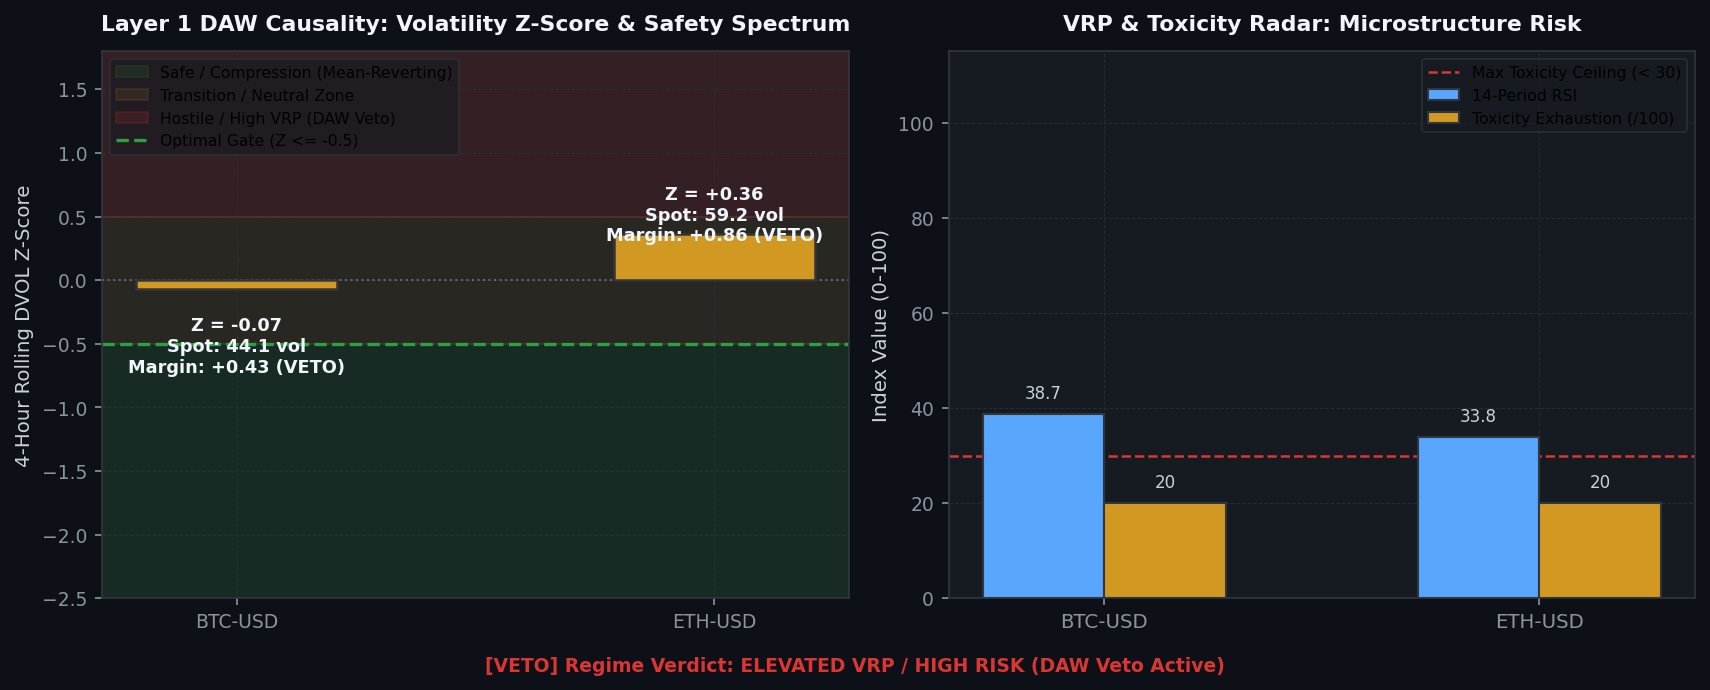
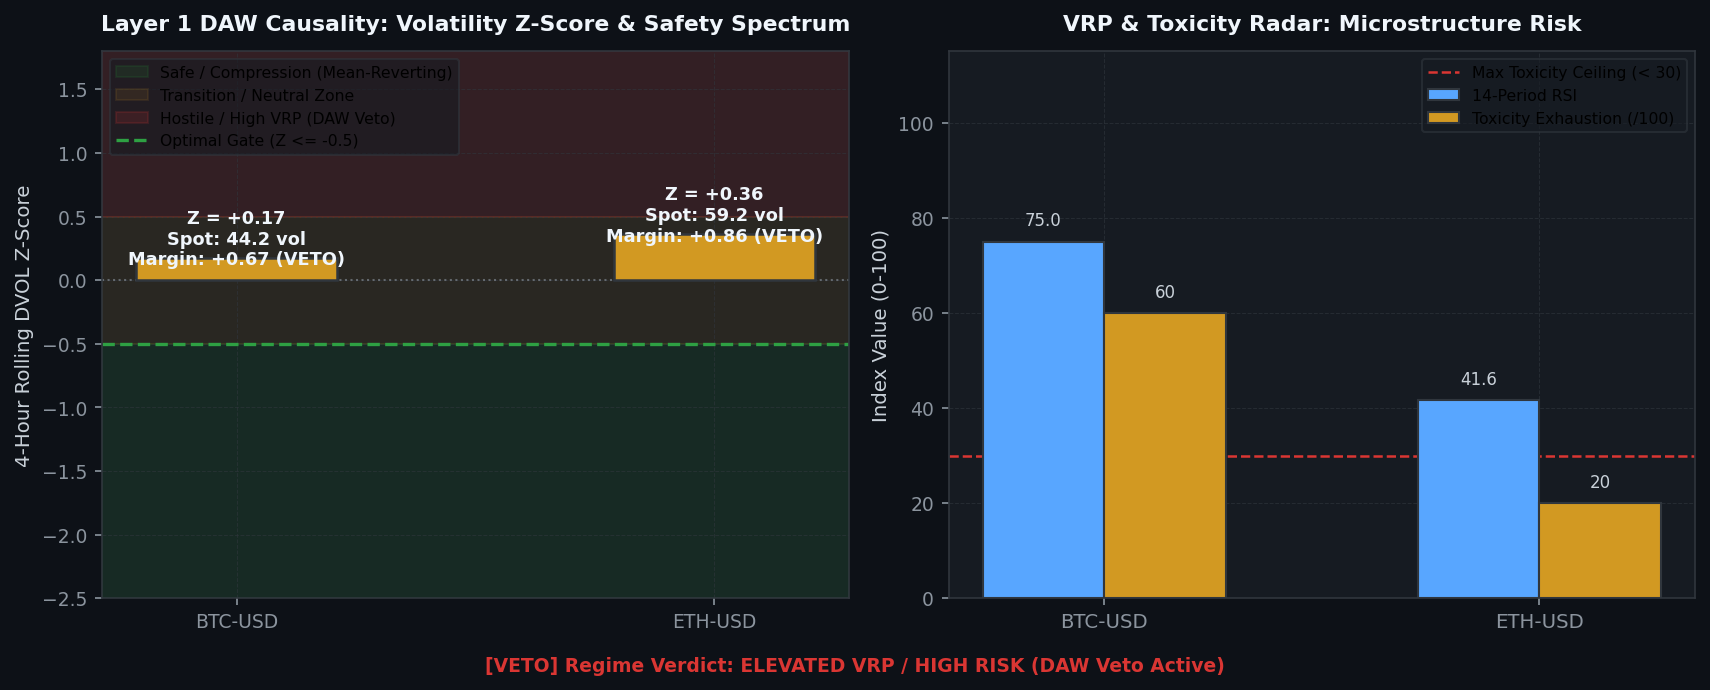
[coinbase] Hourly Status & Visual Intelligence Update: 2026-08-25 00:26:24

diff --git a/coinbase/data/hourly_status_report.md b/coinbase/data/hourly_status_report.md
@@ -3,7 +3,7 @@ layout: default
 ---
 
 # 🛡 Unified Trading System Hourly Status & Visual Intelligence
-> **Report Generated**: `2026-08-25 12:08:01 AM PDT (2026-08-25 07:08:01 UTC)`  
+> **Report Generated**: `2026-08-25 12:26:07 AM PDT (2026-08-25 07:26:07 UTC)`  
 > **System Health**: **🟡 DEGRADED / RESTRICTED** | **Win Rate**: `0.0%` | **Completed Trades**: `0`
 
 
@@ -15,13 +15,13 @@ Real-time Deribit implied volatility (DVOL) proxy tracking against mathematicall
 
 | Symbol | Proxy Oracle | Live Z-Score | Optimal Limit (YSP) | Safety Margin | Live VRP | Optimal VRP (YSP) | DAW Safety Verdict |
 | :--- | :--- | :--- | :--- | :--- | :--- | :--- | :--- |
-| `AVAX-USD` | DVOL_BTC | **-0.07** | **-0.50** | **+0.43** | **-4.84** | 5.0 | 🔴 DAW VETOED |
-| `ETH-USD` | DVOL_ETH | **+0.36** | **-0.50** | **+0.86** | **+9.74** | 5.0 | 🔴 DAW VETOED |
-| `ADA-USD` | DVOL_BTC | **-0.07** | **-0.50** | **+0.43** | **-5.10** | 5.0 | 🔴 DAW VETOED |
-| `DOGE-USD` | DVOL_BTC | **-0.07** | **-0.50** | **+0.43** | **-4.84** | 5.0 | 🔴 DAW VETOED |
-| `BTC-USD` | DVOL_BTC | **-0.07** | **-0.50** | **+0.43** | **-4.84** | 5.0 | 🔴 DAW VETOED |
-| `LINK-USD` | DVOL_BTC | **-0.07** | **-0.50** | **+0.43** | **-5.22** | 5.0 | 🔴 DAW VETOED |
-| `SOL-USD` | DVOL_BTC | **-0.07** | **-0.50** | **+0.43** | **-4.84** | 5.0 | 🔴 DAW VETOED |
+| `AVAX-USD` | DVOL_BTC | **+0.17** | **-0.50** | **+0.67** | **-4.69** | 5.0 | 🔴 DAW VETOED |
+| `ETH-USD` | DVOL_ETH | **+0.38** | **-0.50** | **+0.88** | **+9.74** | 5.0 | 🔴 DAW VETOED |
+| `ADA-USD` | DVOL_BTC | **+0.17** | **-0.50** | **+0.67** | **-5.10** | 5.0 | 🔴 DAW VETOED |
+| `DOGE-USD` | DVOL_BTC | **+0.17** | **-0.50** | **+0.67** | **-4.69** | 5.0 | 🔴 DAW VETOED |
+| `BTC-USD` | DVOL_BTC | **+0.17** | **-0.50** | **+0.67** | **-4.69** | 5.0 | 🔴 DAW VETOED |
+| `LINK-USD` | DVOL_BTC | **+0.17** | **-0.50** | **+0.67** | **-5.22** | 5.0 | 🔴 DAW VETOED |
+| `SOL-USD` | DVOL_BTC | **+0.17** | **-0.50** | **+0.67** | **-4.69** | 5.0 | 🔴 DAW VETOED |
 
 
 
@@ -37,16 +37,16 @@ We hereby certify that the mission-critical algorithmic data assets uploaded by 
 
 | Status | Data Asset | Freshness / State | Details / Timestamp |
 | :---: | :--- | :--- | :--- |
-| ✅ | **Go-List JSON** | Fresh (4.86h old) | 08-24 19:16 |
-| ✅ | **TimesFM Forecasts** | Fresh (0.10h old) | 08-25 00:01 |
-| ❌ | **Holding Times config** | STALE! (87.1h old) | Limit 29.1h |
-| ✅ | **BTC DVOL Cache** | Fresh (0.00h old) | 08-25 00:07 |
-| ✅ | **ETH DVOL Cache** | Fresh (0.00h old) | 08-25 00:08 |
-| ✅ | **Live Trading Telemetry** | Fresh (0.00h old) | 08-25 00:07 |
+| ✅ | **Go-List JSON** | Fresh (5.16h old) | 08-24 19:16 |
+| ✅ | **TimesFM Forecasts** | Fresh (0.40h old) | 08-25 00:01 |
+| ❌ | **Holding Times config** | STALE! (87.4h old) | Limit 29.4h |
+| ✅ | **BTC DVOL Cache** | Fresh (0.00h old) | 08-25 00:26 |
+| ✅ | **ETH DVOL Cache** | Fresh (0.00h old) | 08-25 00:26 |
+| ✅ | **Live Trading Telemetry** | Fresh (0.01h old) | 08-25 00:26 |
 
 <br>
 
-> **Utilization Certification**: ✅ **CERTIFIED.** The Guardian Watchdog is ONLINE and EC2 traders are actively querying the freshest MLOps data artifacts (Found 2000 recent read events).
+> **Utilization Certification**: ✅ **CERTIFIED.** The Guardian Watchdog is ONLINE and EC2 traders are actively querying the freshest MLOps data artifacts (Found 1985 recent read events).
 
 
 ---
@@ -55,7 +55,7 @@ Layer-by-layer tick evaluation waterfall and asset-specific performance tracking
 
 | Funnel Filter Layer | Total Rejections | % of Rejections |
 | :--- | :--- | :--- |
-| Tier 1: Macro Volatility Tensor Gate (Omega_macro) | `3,981` | **100.0%** |
+| Tier 1: Macro Volatility Tensor Gate (Omega_macro) | `4,181` | **100.0%** |
 | Tier 2: Unified Transport & Directional Engine | `0` | **0.0%** |
 | Tier 3: Continuous Hawkes-SFGK Pricer (HAS-Pricer) | `0` | **0.0%** |
 | System: Asset Cooldown Active | `0` | **0.0%** |
@@ -88,7 +88,6 @@ Live balance sheet and open maker liquidity positions from Coinbase CDP.
 | `ADA-USD` | SELL | 0.22853 | `2beee26b-f88c-4929-8625-ec618ae9e32d` |
 | `AVAX-USD` | SELL | 7.708 | `7c4cd0f2-8347-4458-a3a5-8619324273a2` |
 | `ADA-USD` | SELL | 0.22818 | `7af97780-5e33-47e5-9caf-12bec2c8a7d5` |
-| `ADA-USD` | SELL | 0.22728 | `bf03c112-f8fa-4a59-8cb1-e0b98a5b8ac2` |
 | `LINK-USD` | SELL | 11.809 | `8a7d2ebb-36f1-4abc-9889-2c85b18118f4` |
 | `ETH-USD` | SELL | 2512.32 | `fbc1490b-4d58-459c-93f6-eb6dce1d28a9` |
 
@@ -98,14 +97,14 @@ Live balance sheet and open maker liquidity positions from Coinbase CDP.
 ## 4. 🤖 Foundation Model MLOps & Pipeline Orchestration
 Weekly Algorithmic Mega Cap selection, Zero-shot multi-step forward return forecasts, and VSTEF parameter grid search status.
 
-- **TimesFM Forecast DB**: 🟢 Updated 0.1h ago (2026-08-25 12:01 AM PDT)
+- **TimesFM Forecast DB**: 🟢 Updated 0.4h ago (2026-08-25 12:01 AM PDT)
 - **Last Weekly VSTEF Optimization**: `2026-08-05 09:22:38 AM PDT`
-- **Next Scheduled VSTEF Run**: `2026-08-30 07:00:00 PM PDT (Monday 02:00 UTC)` (Countdown: **138.9h (5d 18h 51m)**)
+- **Next Scheduled VSTEF Run**: `2026-08-30 07:00:00 PM PDT (Monday 02:00 UTC)` (Countdown: **138.6h (5d 18h 33m)**)
 - **Promoted Parameter Gates**: $Z_{DVOL} \le -0.5$ | Holding Horizon $= 12\text{h}$
 
 ### Algorithmic Mega Cap Selection
 - **Last Run (Confirmation)**: `2026-08-24 07:16:47 PM PDT`
-- **Next Scheduled Run**: `2026-08-30 06:00:00 PM PDT (Monday 01:00 UTC)` (Countdown: **137.9h (5d 17h 51m)**)
+- **Next Scheduled Run**: `2026-08-30 06:00:00 PM PDT (Monday 01:00 UTC)` (Countdown: **137.6h (5d 17h 33m)**)
 - **Selected Mega Cap Universe**: `BTC, BCH, AVAX, ETH, ALGO, ADA, LTC, DOGE, AAVE, LINK, DOT, HBAR`
 
 
@@ -119,19 +118,19 @@ Visualizing the impact of the VSTEF (Volatility-Synchronized Stop-Tightening Exe
 ## 5. 🖥 Multi-Node Infrastructure & Watchdog Matrix
 ```text
 ================================================================================
-   🛡  SFGK FUNNEL GUARDIAN WATCHDOG (HFT ONLY) |  07:07:58 AM
-   CPU:  19.9%  |  MEM:   7.9% (14.2GB / 15.4GB Free)
+   🛡  SFGK FUNNEL GUARDIAN WATCHDOG (HFT ONLY) |  07:26:05 AM
+   CPU:  24.4%  |  MEM:   7.1% (14.3GB / 15.4GB Free)
 ================================================================================
 SERVICE              | PID      | STATUS          | RESTARTS | INFO
 --------------------------------------------------------------------------------
 L3 Consumer          | 3084610  | RUNNING         | -        | Continuous Websocket Feed
 MAO Daemon           | 3084662  | RUNNING         | -        | Oracle Yield Analysis
 Stable Farmer        | 3084664  | RUNNING         | -        | Volume Farmer
-Trader AVAX-USD      | 3151171  | RUNNING         | 197      | Evaluating Funnel/Polling Order
+Trader AVAX-USD      | 3165748  | COOL-DOWN       | 247      | Next run in 14.7s
 Trader ETH-USD       | 3119671  | RUNNING         | 109      | Evaluating Funnel/Polling Order
 Trader ADA-USD       | 3114924  | RUNNING         | 70       | Evaluating Funnel/Polling Order
-Trader DOGE-USD      | 3151172  | RUNNING         | 137      | Evaluating Funnel/Polling Order
-Trader BTC-USD       | 3151173  | RUNNING         | 220      | Evaluating Funnel/Polling Order
+Trader DOGE-USD      | 3165749  | COOL-DOWN       | 187      | Next run in 14.7s
+Trader BTC-USD       | 3165750  | COOL-DOWN       | 270      | Next run in 14.7s
 Trader LINK-USD      | 3120195  | RUNNING         | 94       | Evaluating Funnel/Polling Order
 ```
 
@@ -151,46 +150,46 @@ Trader LINK-USD      | 3120195  | RUNNING         | 94       | Evaluating Funnel
 <summary><b>Click to expand raw incident logs</b></summary>
 
 ```text
-logs/watchdog_Trader_LINK_USD.log:2026-08-25 07:04:41 [ERROR] [async_sfgk_trader.py:perform_trade_cycle:1006] [LINK-USD] Error polling sell order / ticker: name 'price_buffer' is not defined
-logs/watchdog_Trader_LINK_USD.log:2026-08-25 07:04:46 [ERROR] [async_sfgk_trader.py:perform_trade_cycle:1006] [LINK-USD] Error polling sell order / ticker: name 'price_buffer' is not defined
-logs/watchdog_Trader_LINK_USD.log:2026-08-25 07:04:51 [ERROR] [async_sfgk_trader.py:perform_trade_cycle:1006] [LINK-USD] Error polling sell order / ticker: name 'price_buffer' is not defined
-logs/watchdog_Trader_LINK_USD.log:2026-08-25 07:04:56 [ERROR] [async_sfgk_trader.py:perform_trade_cycle:1006] [LINK-USD] Error polling sell order / ticker: name 'price_buffer' is not defined
-logs/watchdog_Trader_LINK_USD.log:2026-08-25 07:05:01 [ERROR] [async_sfgk_trader.py:perform_trade_cycle:1006] [LINK-USD] Error polling sell order / ticker: name 'price_buffer' is not defined
-logs/watchdog_Trader_LINK_USD.log:2026-08-25 07:05:06 [ERROR] [async_sfgk_trader.py:perform_trade_cycle:1006] [LINK-USD] Error polling sell order / ticker: name 'price_buffer' is not defined
-logs/watchdog_Trader_LINK_USD.log:2026-08-25 07:05:11 [ERROR] [async_sfgk_trader.py:perform_trade_cycle:1006] [LINK-USD] Error polling sell order / ticker: name 'price_buffer' is not defined
-logs/watchdog_Trader_LINK_USD.log:2026-08-25 07:05:17 [ERROR] [async_sfgk_trader.py:perform_trade_cycle:1006] [LINK-USD] Error polling sell order / ticker: name 'price_buffer' is not defined
-logs/watchdog_Trader_LINK_USD.log:2026-08-25 07:05:22 [ERROR] [async_sfgk_trader.py:perform_trade_cycle:1006] [LINK-USD] Error polling sell order / ticker: name 'price_buffer' is not defined
-logs/watchdog_Trader_LINK_USD.log:2026-08-25 07:05:27 [ERROR] [async_sfgk_trader.py:perform_trade_cycle:1006] [LINK-USD] Error polling sell order / ticker: name 'price_buffer' is not defined
-logs/watchdog_Trader_LINK_USD.log:2026-08-25 07:05:32 [ERROR] [async_sfgk_trader.py:perform_trade_cycle:1006] [LINK-USD] Error polling sell order / ticker: name 'price_buffer' is not defined
-logs/watchdog_Trader_LINK_USD.log:2026-08-25 07:05:37 [ERROR] [async_sfgk_trader.py:perform_trade_cycle:1006] [LINK-USD] Error polling sell order / ticker: name 'price_buffer' is not defined
-logs/watchdog_Trader_LINK_USD.log:2026-08-25 07:05:42 [ERROR] [async_sfgk_trader.py:perform_trade_cycle:1006] [LINK-USD] Error polling sell order / ticker: name 'price_buffer' is not defined
-logs/watchdog_Trader_LINK_USD.log:2026-08-25 07:05:47 [ERROR] [async_sfgk_trader.py:perform_trade_cycle:1006] [LINK-USD] Error polling sell order / ticker: name 'price_buffer' is not defined
-logs/watchdog_Trader_LINK_USD.log:2026-08-25 07:05:53 [ERROR] [async_sfgk_trader.py:perform_trade_cycle:1006] [LINK-USD] Error polling sell order / ticker: name 'price_buffer' is not defined
-logs/watchdog_Trader_LINK_USD.log:2026-08-25 07:05:58 [ERROR] [async_sfgk_trader.py:perform_trade_cycle:1006] [LINK-USD] Error polling sell order / ticker: name 'price_buffer' is not defined
-logs/watchdog_Trader_LINK_USD.log:2026-08-25 07:06:03 [ERROR] [async_sfgk_trader.py:perform_trade_cycle:1006] [LINK-USD] Error polling sell order / ticker: name 'price_buffer' is not defined
-logs/watchdog_Trader_LINK_USD.log:2026-08-25 07:06:08 [ERROR] [async_sfgk_trader.py:perform_trade_cycle:1006] [LINK-USD] Error polling sell order / ticker: name 'price_buffer' is not defined
-logs/watchdog_Trader_LINK_USD.log:2026-08-25 07:06:13 [ERROR] [async_sfgk_trader.py:perform_trade_cycle:1006] [LINK-USD] Error polling sell order / ticker: name 'price_buffer' is not defined
-logs/watchdog_Trader_LINK_USD.log:2026-08-25 07:06:18 [ERROR] [async_sfgk_trader.py:perform_trade_cycle:1006] [LINK-USD] Error polling sell order / ticker: name 'price_buffer' is not defined
-logs/watchdog_Trader_LINK_USD.log:2026-08-25 07:06:24 [ERROR] [async_sfgk_trader.py:perform_trade_cycle:1006] [LINK-USD] Error polling sell order / ticker: name 'price_buffer' is not defined
-logs/watchdog_Trader_LINK_USD.log:2026-08-25 07:06:29 [ERROR] [async_sfgk_trader.py:perform_trade_cycle:1006] [LINK-USD] Error polling sell order / ticker: name 'price_buffer' is not defined
-logs/watchdog_Trader_LINK_USD.log:2026-08-25 07:06:34 [ERROR] [async_sfgk_trader.py:perform_trade_cycle:1006] [LINK-USD] Error polling sell order / ticker: name 'price_buffer' is not defined
-logs/watchdog_Trader_LINK_USD.log:2026-08-25 07:06:39 [ERROR] [async_sfgk_trader.py:perform_trade_cycle:1006] [LINK-USD] Error polling sell order / ticker: name 'price_buffer' is not defined
-logs/watchdog_Trader_LINK_USD.log:2026-08-25 07:06:44 [ERROR] [async_sfgk_trader.py:perform_trade_cycle:1006] [LINK-USD] Error polling sell order / ticker: name 'price_buffer' is not defined
-logs/watchdog_Trader_LINK_USD.log:2026-08-25 07:06:49 [ERROR] [async_sfgk_trader.py:perform_trade_cycle:1006] [LINK-USD] Error polling sell order / ticker: name 'price_buffer' is not defined
-logs/watchdog_Trader_LINK_USD.log:2026-08-25 07:06:55 [ERROR] [async_sfgk_trader.py:perform_trade_cycle:1006] [LINK-USD] Error polling sell order / ticker: name 'price_buffer' is not defined
-logs/watchdog_Trader_LINK_USD.log:2026-08-25 07:07:00 [ERROR] [async_sfgk_trader.py:perform_trade_cycle:1006] [LINK-USD] Error polling sell order / ticker: name 'price_buffer' is not defined
-logs/watchdog_Trader_LINK_USD.log:2026-08-25 07:07:05 [ERROR] [async_sfgk_trader.py:perform_trade_cycle:1006] [LINK-USD] Error polling sell order / ticker: name 'price_buffer' is not defined
-logs/watchdog_Trader_LINK_USD.log:2026-08-25 07:07:10 [ERROR] [async_sfgk_trader.py:perform_trade_cycle:1006] [LINK-USD] Error polling sell order / ticker: name 'price_buffer' is not defined
-logs/watchdog_Trader_LINK_USD.log:2026-08-25 07:07:15 [ERROR] [async_sfgk_trader.py:perform_trade_cycle:1006] [LINK-USD] Error polling sell order / ticker: name 'price_buffer' is not defined
-logs/watchdog_Trader_LINK_USD.log:2026-08-25 07:07:20 [ERROR] [async_sfgk_trader.py:perform_trade_cycle:1006] [LINK-USD] Error polling sell order / ticker: name 'price_buffer' is not defined
-logs/watchdog_Trader_LINK_USD.log:2026-08-25 07:07:25 [ERROR] [async_sfgk_trader.py:perform_trade_cycle:1006] [LINK-USD] Error polling sell order / ticker: name 'price_buffer' is not defined
-logs/watchdog_Trader_LINK_USD.log:2026-08-25 07:07:31 [ERROR] [async_sfgk_trader.py:perform_trade_cycle:1006] [LINK-USD] Error polling sell order / ticker: name 'price_buffer' is not defined
-logs/watchdog_Trader_LINK_USD.log:2026-08-25 07:07:36 [ERROR] [async_sfgk_trader.py:perform_trade_cycle:1006] [LINK-USD] Error polling sell order / ticker: name 'price_buffer' is not defined
-logs/watchdog_Trader_LINK_USD.log:2026-08-25 07:07:41 [ERROR] [async_sfgk_trader.py:perform_trade_cycle:1006] [LINK-USD] Error polling sell order / ticker: name 'price_buffer' is not defined
-logs/watchdog_Trader_LINK_USD.log:2026-08-25 07:07:46 [ERROR] [async_sfgk_trader.py:perform_trade_cycle:1006] [LINK-USD] Error polling sell order / ticker: name 'price_buffer' is not defined
-logs/watchdog_Trader_LINK_USD.log:2026-08-25 07:07:51 [ERROR] [async_sfgk_trader.py:perform_trade_cycle:1006] [LINK-USD] Error polling sell order / ticker: name 'price_buffer' is not defined
-logs/watchdog_Trader_LINK_USD.log:2026-08-25 07:07:57 [ERROR] [async_sfgk_trader.py:perform_trade_cycle:1006] [LINK-USD] Error polling sell order / ticker: name 'price_buffer' is not defined
-logs/watchdog_Trader_LINK_USD.log:2026-08-25 07:08:02 [ERROR] [async_sfgk_trader.py:perform_trade_cycle:1006] [LINK-USD] Error polling sell order / ticker: name 'price_buffer' is not defined
+logs/watchdog_Trader_LINK_USD.log:2026-08-25 07:22:49 [ERROR] [async_sfgk_trader.py:perform_trade_cycle:1006] [LINK-USD] Error polling sell order / ticker: name 'price_buffer' is not defined
+logs/watchdog_Trader_LINK_USD.log:2026-08-25 07:22:54 [ERROR] [async_sfgk_trader.py:perform_trade_cycle:1006] [LINK-USD] Error polling sell order / ticker: name 'price_buffer' is not defined
+logs/watchdog_Trader_LINK_USD.log:2026-08-25 07:22:59 [ERROR] [async_sfgk_trader.py:perform_trade_cycle:1006] [LINK-USD] Error polling sell order / ticker: name 'price_buffer' is not defined
+logs/watchdog_Trader_LINK_USD.log:2026-08-25 07:23:04 [ERROR] [async_sfgk_trader.py:perform_trade_cycle:1006] [LINK-USD] Error polling sell order / ticker: name 'price_buffer' is not defined
+logs/watchdog_Trader_LINK_USD.log:2026-08-25 07:23:09 [ERROR] [async_sfgk_trader.py:perform_trade_cycle:1006] [LINK-USD] Error polling sell order / ticker: name 'price_buffer' is not defined
+logs/watchdog_Trader_LINK_USD.log:2026-08-25 07:23:14 [ERROR] [async_sfgk_trader.py:perform_trade_cycle:1006] [LINK-USD] Error polling sell order / ticker: name 'price_buffer' is not defined
+logs/watchdog_Trader_LINK_USD.log:2026-08-25 07:23:19 [ERROR] [async_sfgk_trader.py:perform_trade_cycle:1006] [LINK-USD] Error polling sell order / ticker: name 'price_buffer' is not defined
+logs/watchdog_Trader_LINK_USD.log:2026-08-25 07:23:25 [ERROR] [async_sfgk_trader.py:perform_trade_cycle:1006] [LINK-USD] Error polling sell order / ticker: name 'price_buffer' is not defined
+logs/watchdog_Trader_LINK_USD.log:2026-08-25 07:23:30 [ERROR] [async_sfgk_trader.py:perform_trade_cycle:1006] [LINK-USD] Error polling sell order / ticker: name 'price_buffer' is not defined
+logs/watchdog_Trader_LINK_USD.log:2026-08-25 07:23:35 [ERROR] [async_sfgk_trader.py:perform_trade_cycle:1006] [LINK-USD] Error polling sell order / ticker: name 'price_buffer' is not defined
+logs/watchdog_Trader_LINK_USD.log:2026-08-25 07:23:40 [ERROR] [async_sfgk_trader.py:perform_trade_cycle:1006] [LINK-USD] Error polling sell order / ticker: name 'price_buffer' is not defined
+logs/watchdog_Trader_LINK_USD.log:2026-08-25 07:23:45 [ERROR] [async_sfgk_trader.py:perform_trade_cycle:1006] [LINK-USD] Error polling sell order / ticker: name 'price_buffer' is not defined
+logs/watchdog_Trader_LINK_USD.log:2026-08-25 07:23:50 [ERROR] [async_sfgk_trader.py:perform_trade_cycle:1006] [LINK-USD] Error polling sell order / ticker: name 'price_buffer' is not defined
+logs/watchdog_Trader_LINK_USD.log:2026-08-25 07:23:56 [ERROR] [async_sfgk_trader.py:perform_trade_cycle:1006] [LINK-USD] Error polling sell order / ticker: name 'price_buffer' is not defined
+logs/watchdog_Trader_LINK_USD.log:2026-08-25 07:24:01 [ERROR] [async_sfgk_trader.py:perform_trade_cycle:1006] [LINK-USD] Error polling sell order / ticker: name 'price_buffer' is not defined
+logs/watchdog_Trader_LINK_USD.log:2026-08-25 07:24:06 [ERROR] [async_sfgk_trader.py:perform_trade_cycle:1006] [LINK-USD] Error polling sell order / ticker: name 'price_buffer' is not defined
+logs/watchdog_Trader_LINK_USD.log:2026-08-25 07:24:11 [ERROR] [async_sfgk_trader.py:perform_trade_cycle:1006] [LINK-USD] Error polling sell order / ticker: name 'price_buffer' is not defined
+logs/watchdog_Trader_LINK_USD.log:2026-08-25 07:24:17 [ERROR] [async_sfgk_trader.py:perform_trade_cycle:1006] [LINK-USD] Error polling sell order / ticker: name 'price_buffer' is not defined
+logs/watchdog_Trader_LINK_USD.log:2026-08-25 07:24:22 [ERROR] [async_sfgk_trader.py:perform_trade_cycle:1006] [LINK-USD] Error polling sell order / ticker: name 'price_buffer' is not defined
+logs/watchdog_Trader_LINK_USD.log:2026-08-25 07:24:27 [ERROR] [async_sfgk_trader.py:perform_trade_cycle:1006] [LINK-USD] Error polling sell order / ticker: name 'price_buffer' is not defined
+logs/watchdog_Trader_LINK_USD.log:2026-08-25 07:24:32 [ERROR] [async_sfgk_trader.py:perform_trade_cycle:1006] [LINK-USD] Error polling sell order / ticker: name 'price_buffer' is not defined
+logs/watchdog_Trader_LINK_USD.log:2026-08-25 07:24:37 [ERROR] [async_sfgk_trader.py:perform_trade_cycle:1006] [LINK-USD] Error polling sell order / ticker: name 'price_buffer' is not defined
+logs/watchdog_Trader_LINK_USD.log:2026-08-25 07:24:42 [ERROR] [async_sfgk_trader.py:perform_trade_cycle:1006] [LINK-USD] Error polling sell order / ticker: name 'price_buffer' is not defined
+logs/watchdog_Trader_LINK_USD.log:2026-08-25 07:24:47 [ERROR] [async_sfgk_trader.py:perform_trade_cycle:1006] [LINK-USD] Error polling sell order / ticker: name 'price_buffer' is not defined
+logs/watchdog_Trader_LINK_USD.log:2026-08-25 07:24:53 [ERROR] [async_sfgk_trader.py:perform_trade_cycle:1006] [LINK-USD] Error polling sell order / ticker: name 'price_buffer' is not defined
+logs/watchdog_Trader_LINK_USD.log:2026-08-25 07:24:58 [ERROR] [async_sfgk_trader.py:perform_trade_cycle:1006] [LINK-USD] Error polling sell order / ticker: name 'price_buffer' is not defined
+logs/watchdog_Trader_LINK_USD.log:2026-08-25 07:25:03 [ERROR] [async_sfgk_trader.py:perform_trade_cycle:1006] [LINK-USD] Error polling sell order / ticker: name 'price_buffer' is not defined
+logs/watchdog_Trader_LINK_USD.log:2026-08-25 07:25:08 [ERROR] [async_sfgk_trader.py:perform_trade_cycle:1006] [LINK-USD] Error polling sell order / ticker: name 'price_buffer' is not defined
+logs/watchdog_Trader_LINK_USD.log:2026-08-25 07:25:13 [ERROR] [async_sfgk_trader.py:perform_trade_cycle:1006] [LINK-USD] Error polling sell order / ticker: name 'price_buffer' is not defined
+logs/watchdog_Trader_LINK_USD.log:2026-08-25 07:25:18 [ERROR] [async_sfgk_trader.py:perform_trade_cycle:1006] [LINK-USD] Error polling sell order / ticker: name 'price_buffer' is not defined
+logs/watchdog_Trader_LINK_USD.log:2026-08-25 07:25:23 [ERROR] [async_sfgk_trader.py:perform_trade_cycle:1006] [LINK-USD] Error polling sell order / ticker: name 'price_buffer' is not defined
+logs/watchdog_Trader_LINK_USD.log:2026-08-25 07:25:29 [ERROR] [async_sfgk_trader.py:perform_trade_cycle:1006] [LINK-USD] Error polling sell order / ticker: name 'price_buffer' is not defined
+logs/watchdog_Trader_LINK_USD.log:2026-08-25 07:25:34 [ERROR] [async_sfgk_trader.py:perform_trade_cycle:1006] [LINK-USD] Error polling sell order / ticker: name 'price_buffer' is not defined
+logs/watchdog_Trader_LINK_USD.log:2026-08-25 07:25:39 [ERROR] [async_sfgk_trader.py:perform_trade_cycle:1006] [LINK-USD] Error polling sell order / ticker: name 'price_buffer' is not defined
+logs/watchdog_Trader_LINK_USD.log:2026-08-25 07:25:44 [ERROR] [async_sfgk_trader.py:perform_trade_cycle:1006] [LINK-USD] Error polling sell order / ticker: name 'price_buffer' is not defined
+logs/watchdog_Trader_LINK_USD.log:2026-08-25 07:25:49 [ERROR] [async_sfgk_trader.py:perform_trade_cycle:1006] [LINK-USD] Error polling sell order / ticker: name 'price_buffer' is not defined
+logs/watchdog_Trader_LINK_USD.log:2026-08-25 07:25:54 [ERROR] [async_sfgk_trader.py:perform_trade_cycle:1006] [LINK-USD] Error polling sell order / ticker: name 'price_buffer' is not defined
+logs/watchdog_Trader_LINK_USD.log:2026-08-25 07:26:00 [ERROR] [async_sfgk_trader.py:perform_trade_cycle:1006] [LINK-USD] Error polling sell order / ticker: name 'price_buffer' is not defined
+logs/watchdog_Trader_LINK_USD.log:2026-08-25 07:26:05 [ERROR] [async_sfgk_trader.py:perform_trade_cycle:1006] [LINK-USD] Error polling sell order / ticker: name 'price_buffer' is not defined
+logs/watchdog_Trader_LINK_USD.log:2026-08-25 07:26:10 [ERROR] [async_sfgk_trader.py:perform_trade_cycle:1006] [LINK-USD] Error polling sell order / ticker: name 'price_buffer' is not defined
 ```
 </details>
 

diff --git a/coinbase/data/visual_intelligence.md b/coinbase/data/visual_intelligence.md
@@ -4,7 +4,7 @@ title: Visual Intelligence Gallery
 ---
 
 # 📈 Visual Intelligence Gallery
-> **Generated:** `2026-08-25 00:08:18`
+> **Generated:** `2026-08-25 00:26:24`
 > **[Return to Main Status Report](./hourly_status_report.md)**
 
 This page visualizes the internal states, market profiles, and decision criteria of the active **3-Tier Fused Decision Engine** across all layers.
